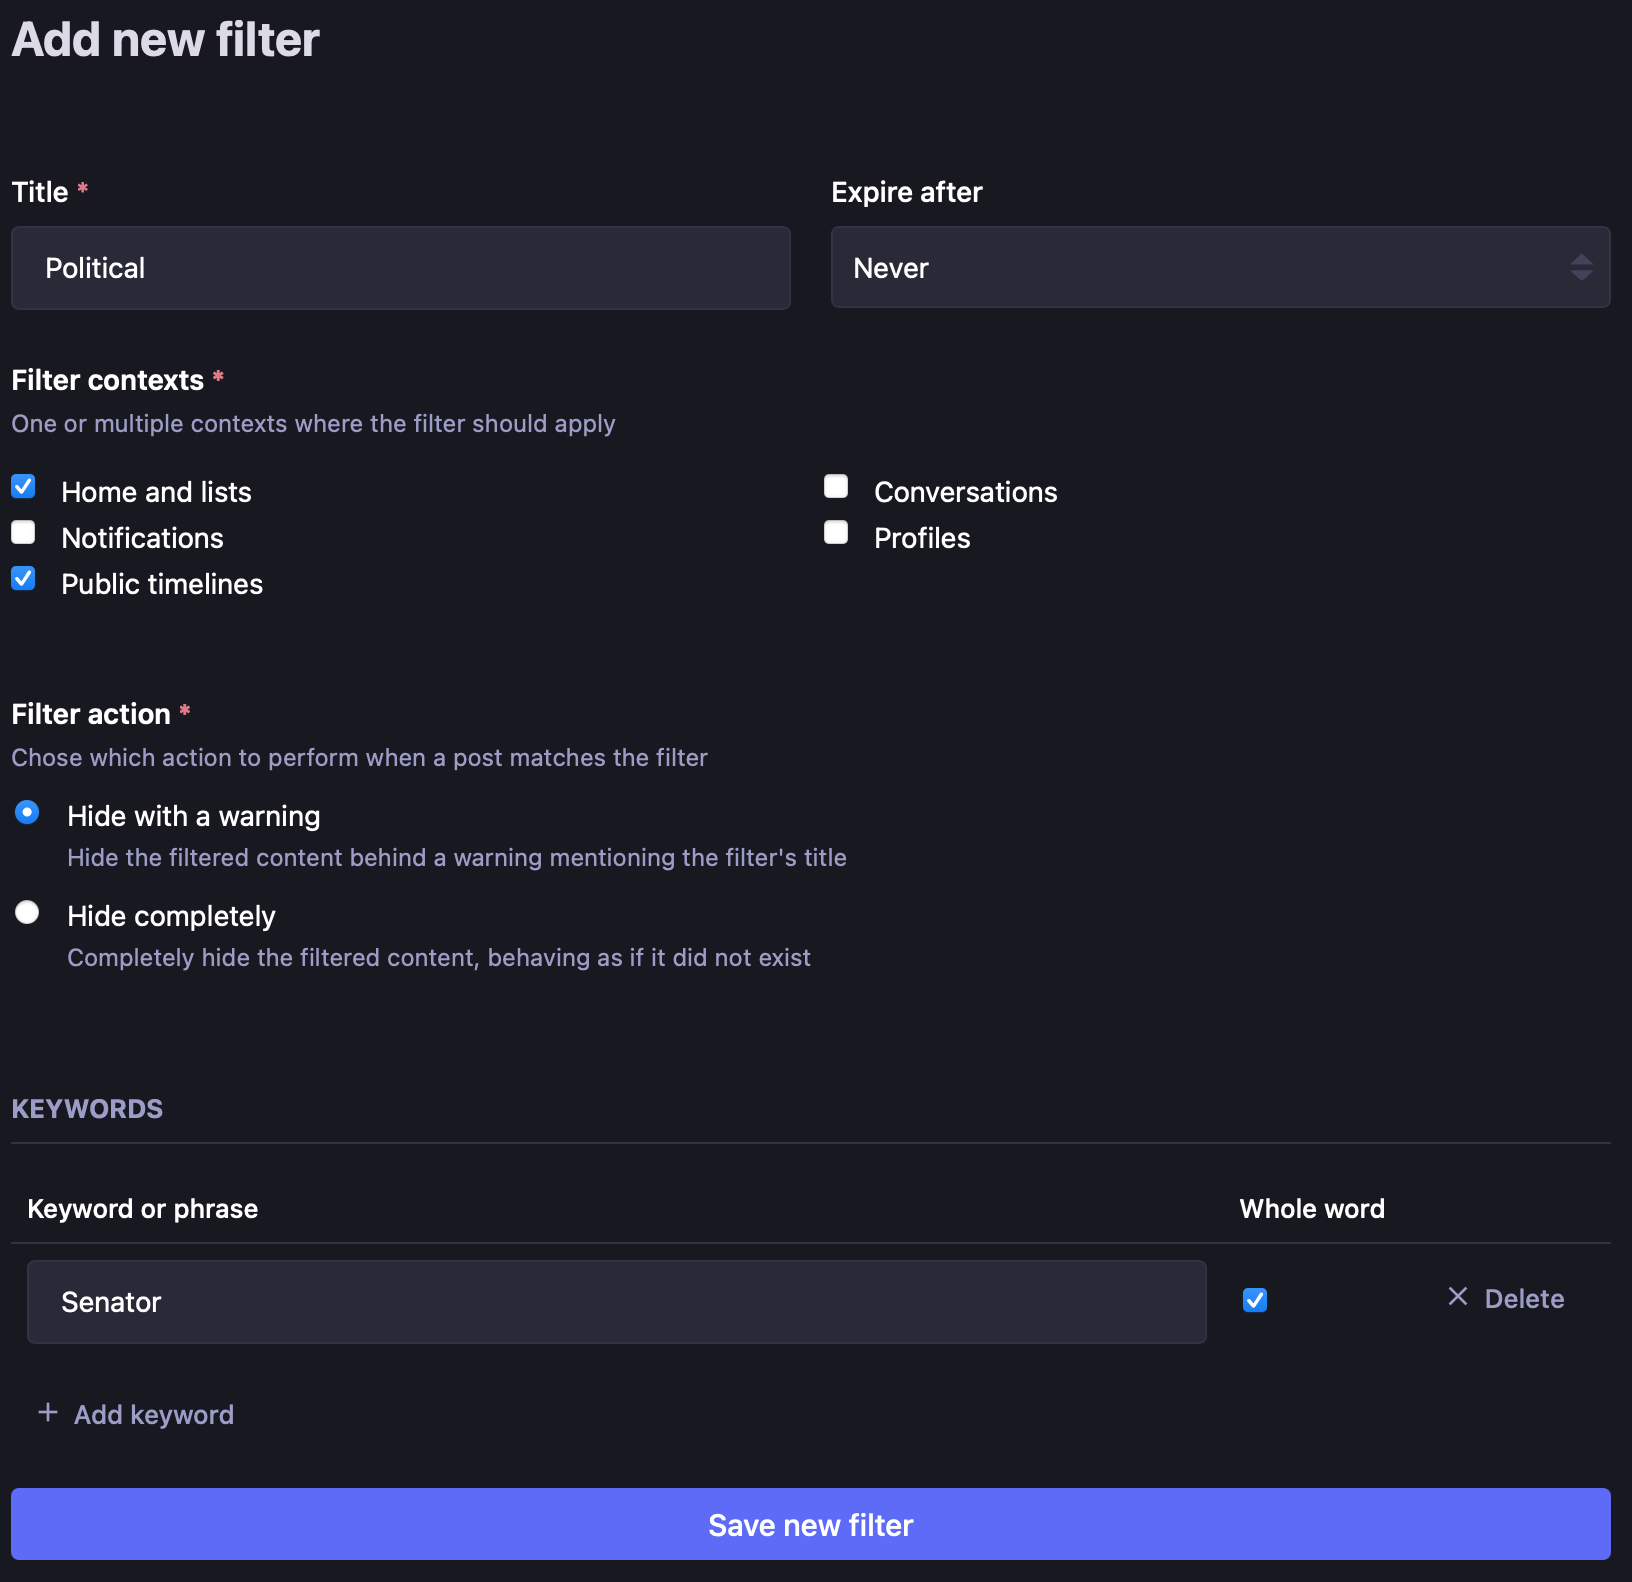
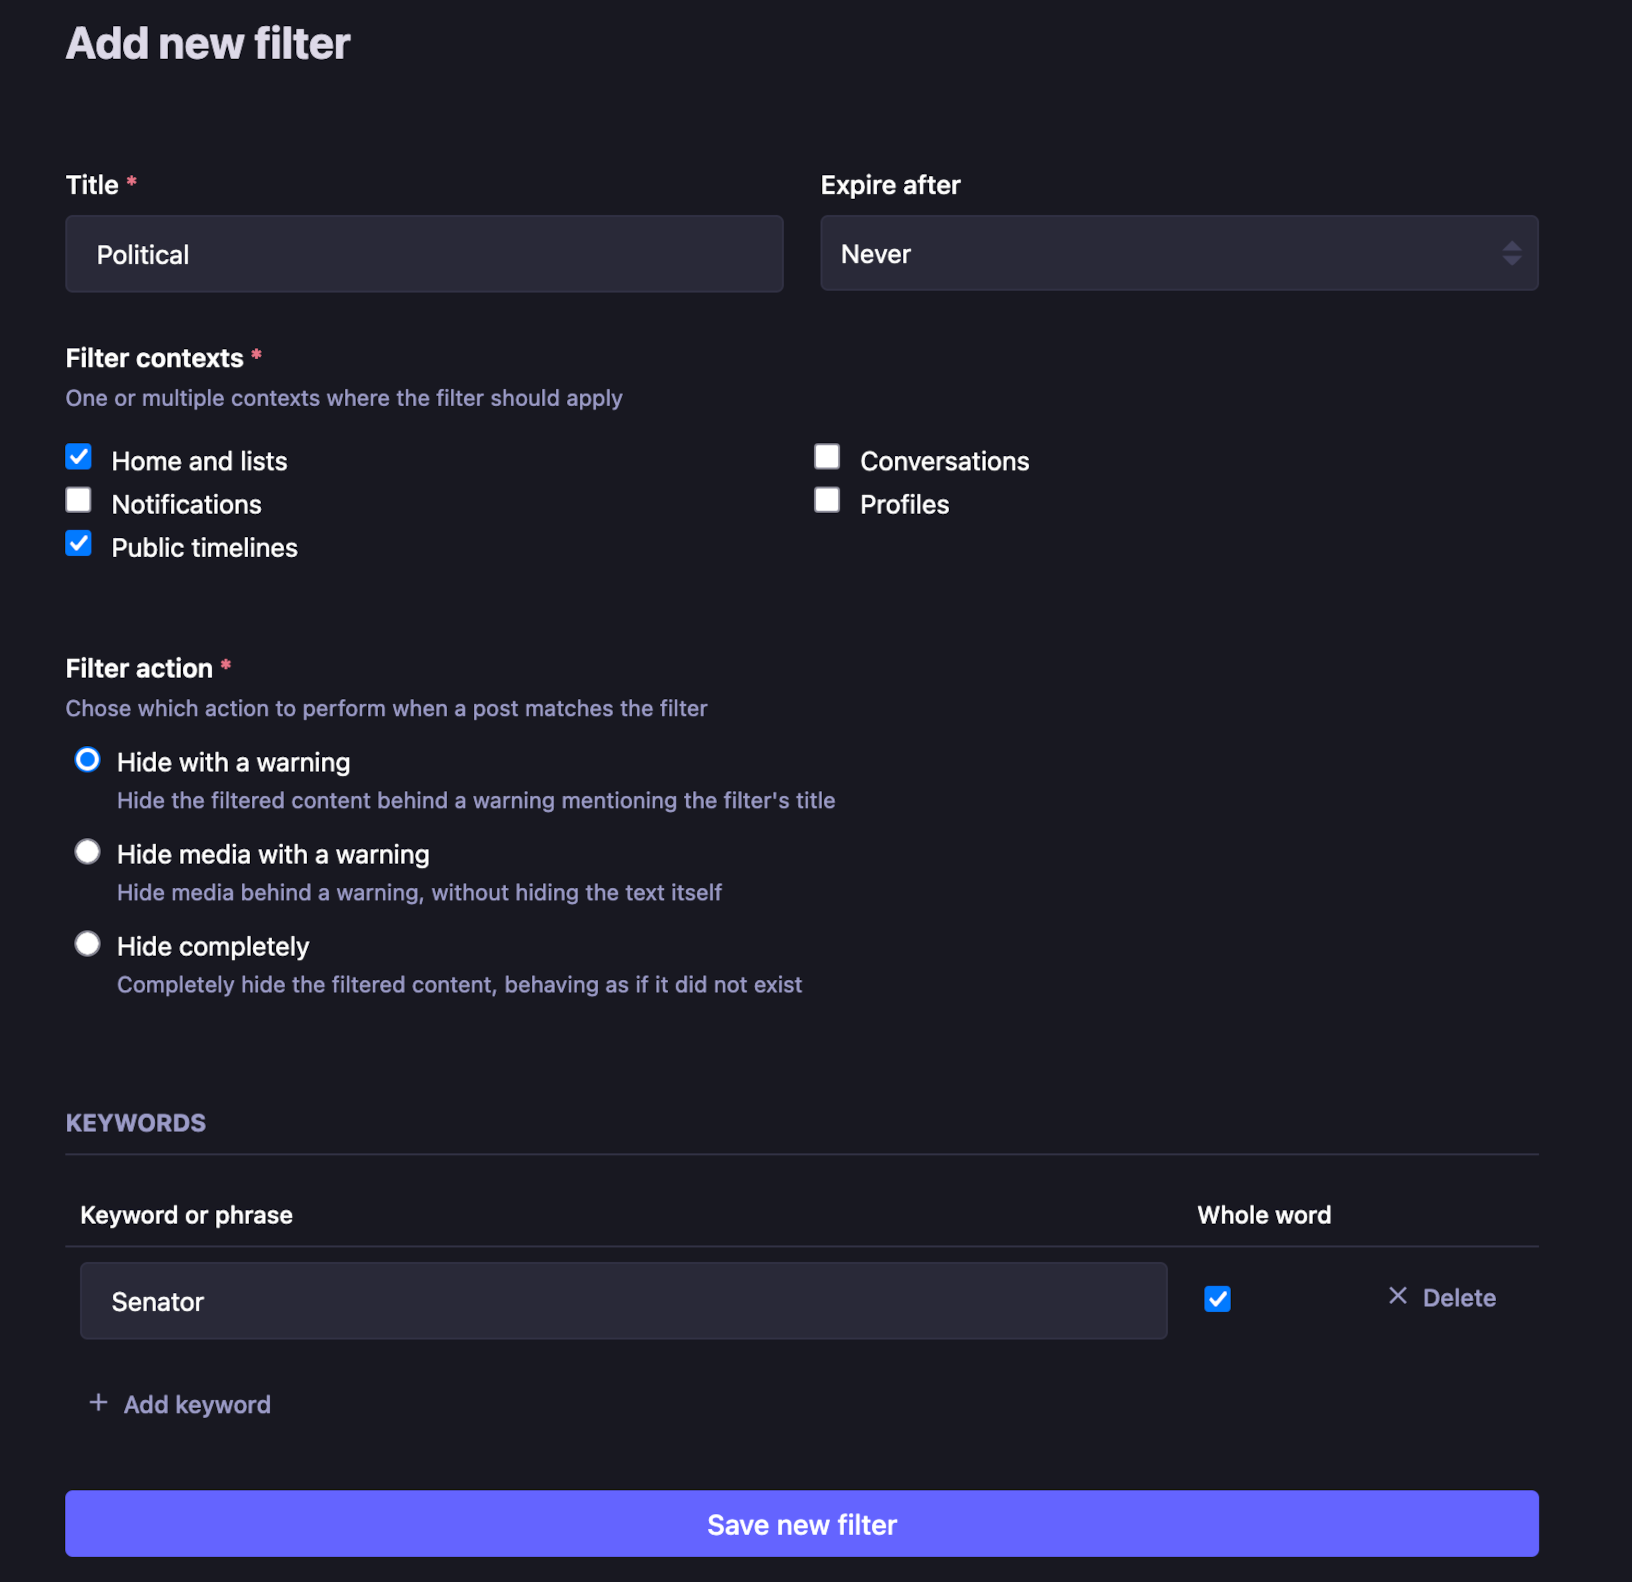
Update moderating.md with correct filter action name and new screenshot, fixes #1265 (#1705)
* Update moderating.md with correct filter action name and screenshot, fixes #1265

As requested in #1265, this updates the filter action name to match the text in the settings. Also adds an updated screenshot showing all three filter settings, as of 4.4.3.

diff --git a/content/en/user/moderating.md b/content/en/user/moderating.md
@@ -34,9 +34,9 @@ Choose where the filter will be applied:
 * Public timelines = matching statuses will not appear in local/federated timelines
 * Conversations = matching statuses will be hidden in threads and detailed views
 
-### Drop instead of hide {#filter-drop}
+### Hide completely {#filter-hide}
 
-Filtering is usually done client-side, so that disabling a filter will cause filtered statuses to be visible again. However, if you enable "drop instead of hide", any matching statuses will be disappear completely and will never be delivered to your home or notifications.
+Filtering is usually done client-side, so that disabling a filter will cause filtered statuses to be visible again. However, if you enable "Hide completely", any matching statuses will be disappear completely and will never be delivered to your home or notifications.
 
 ### Whole word {#filter-whole}
 
